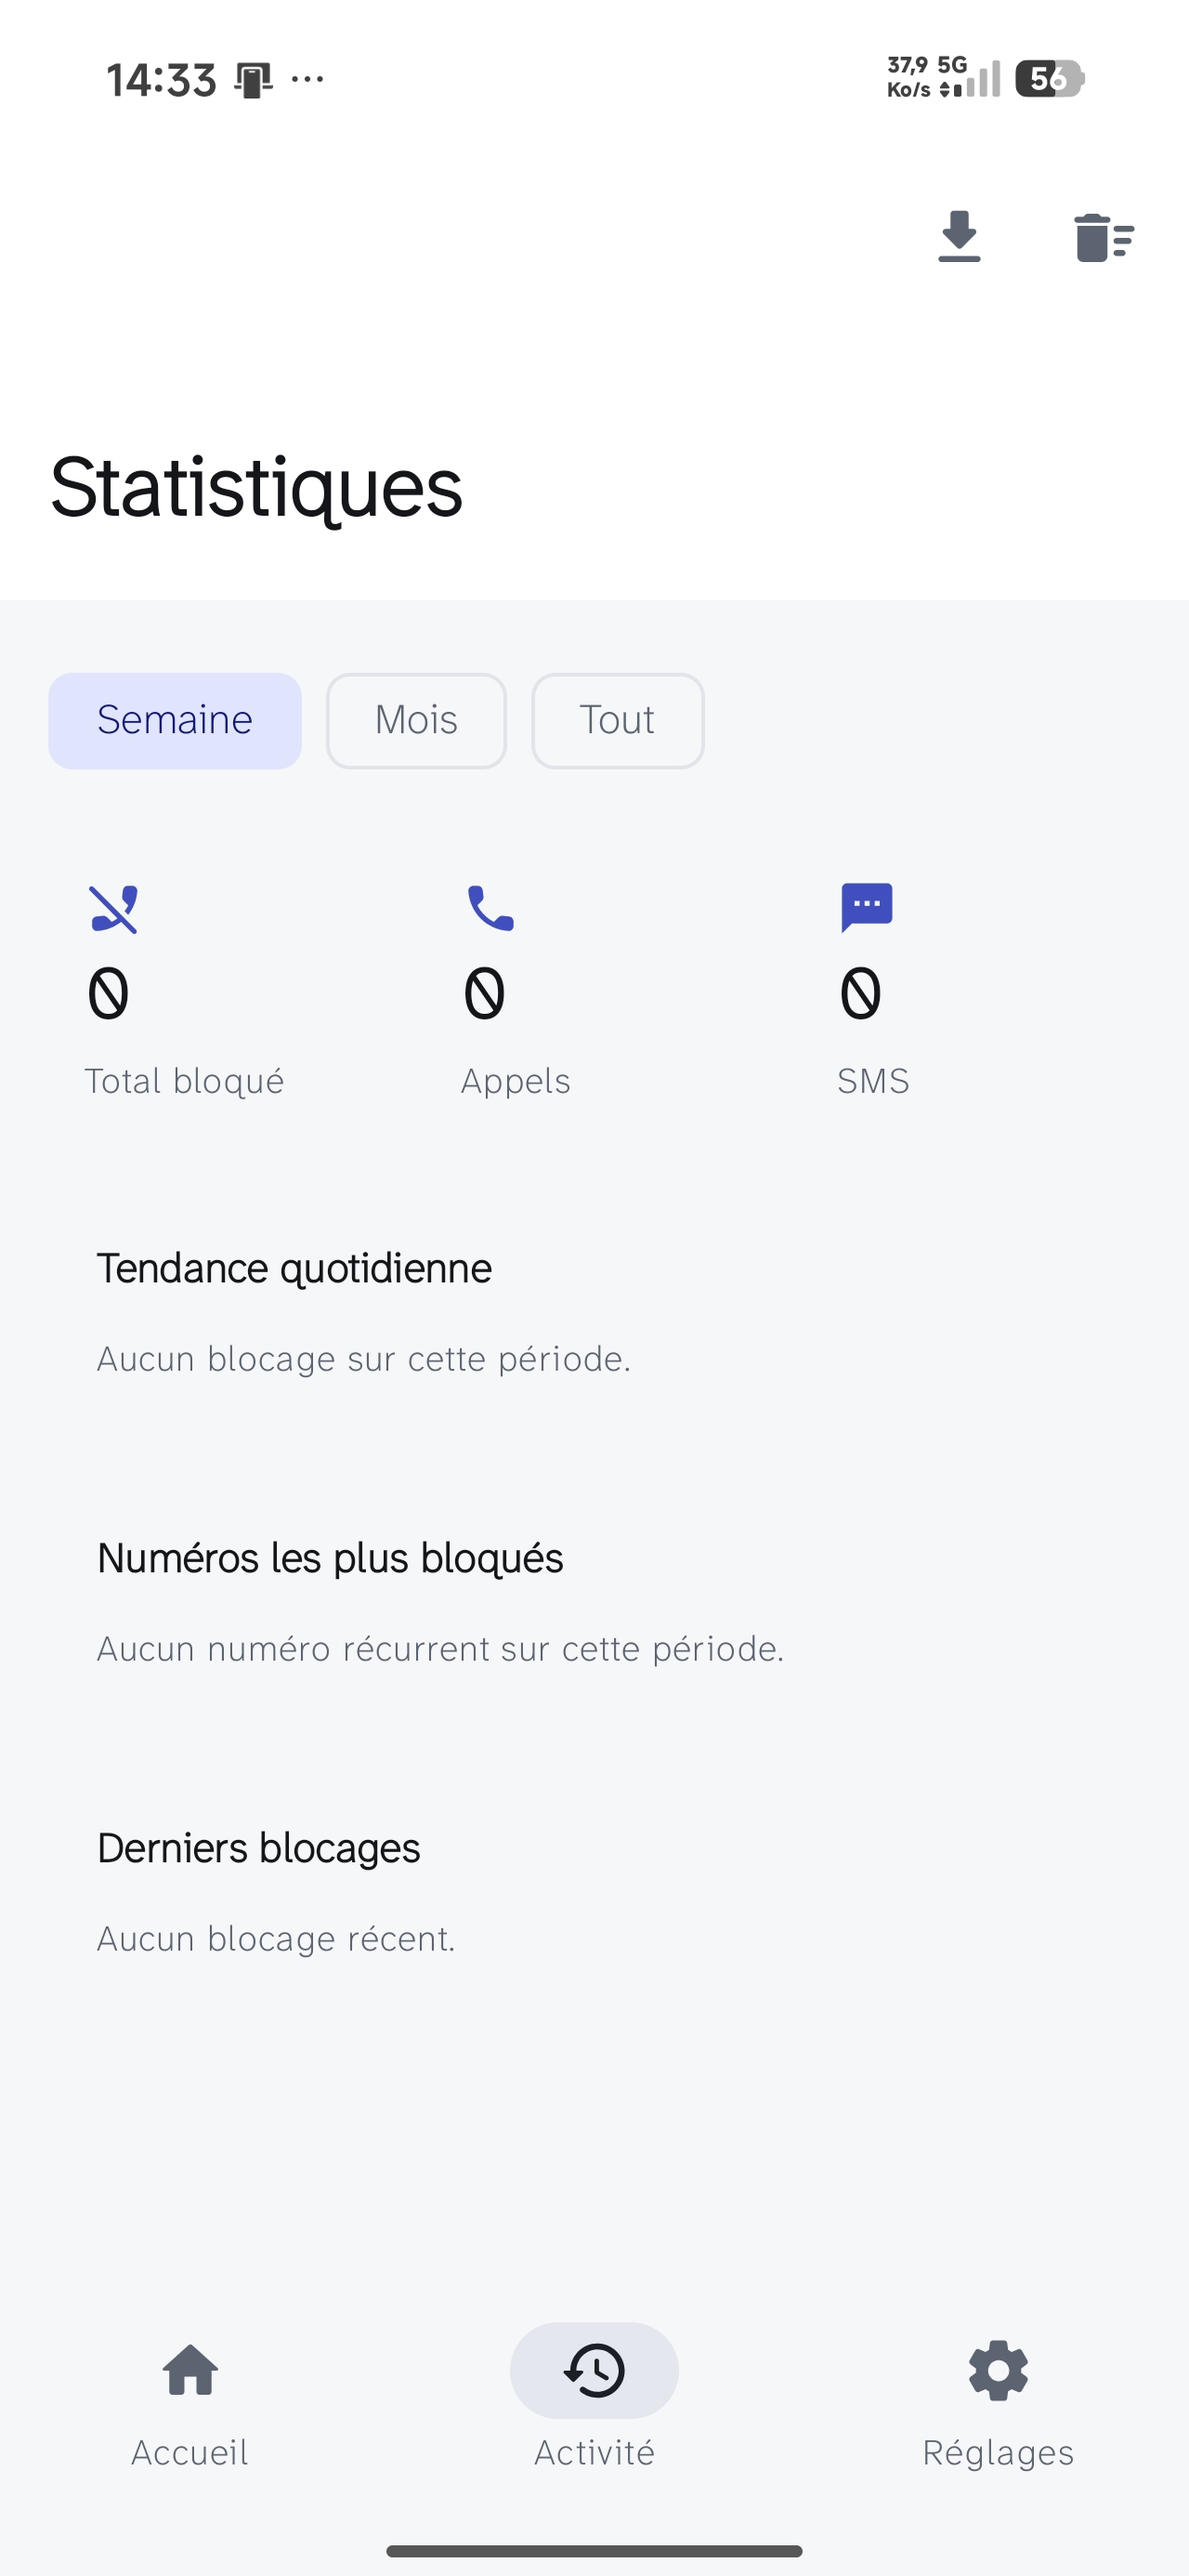
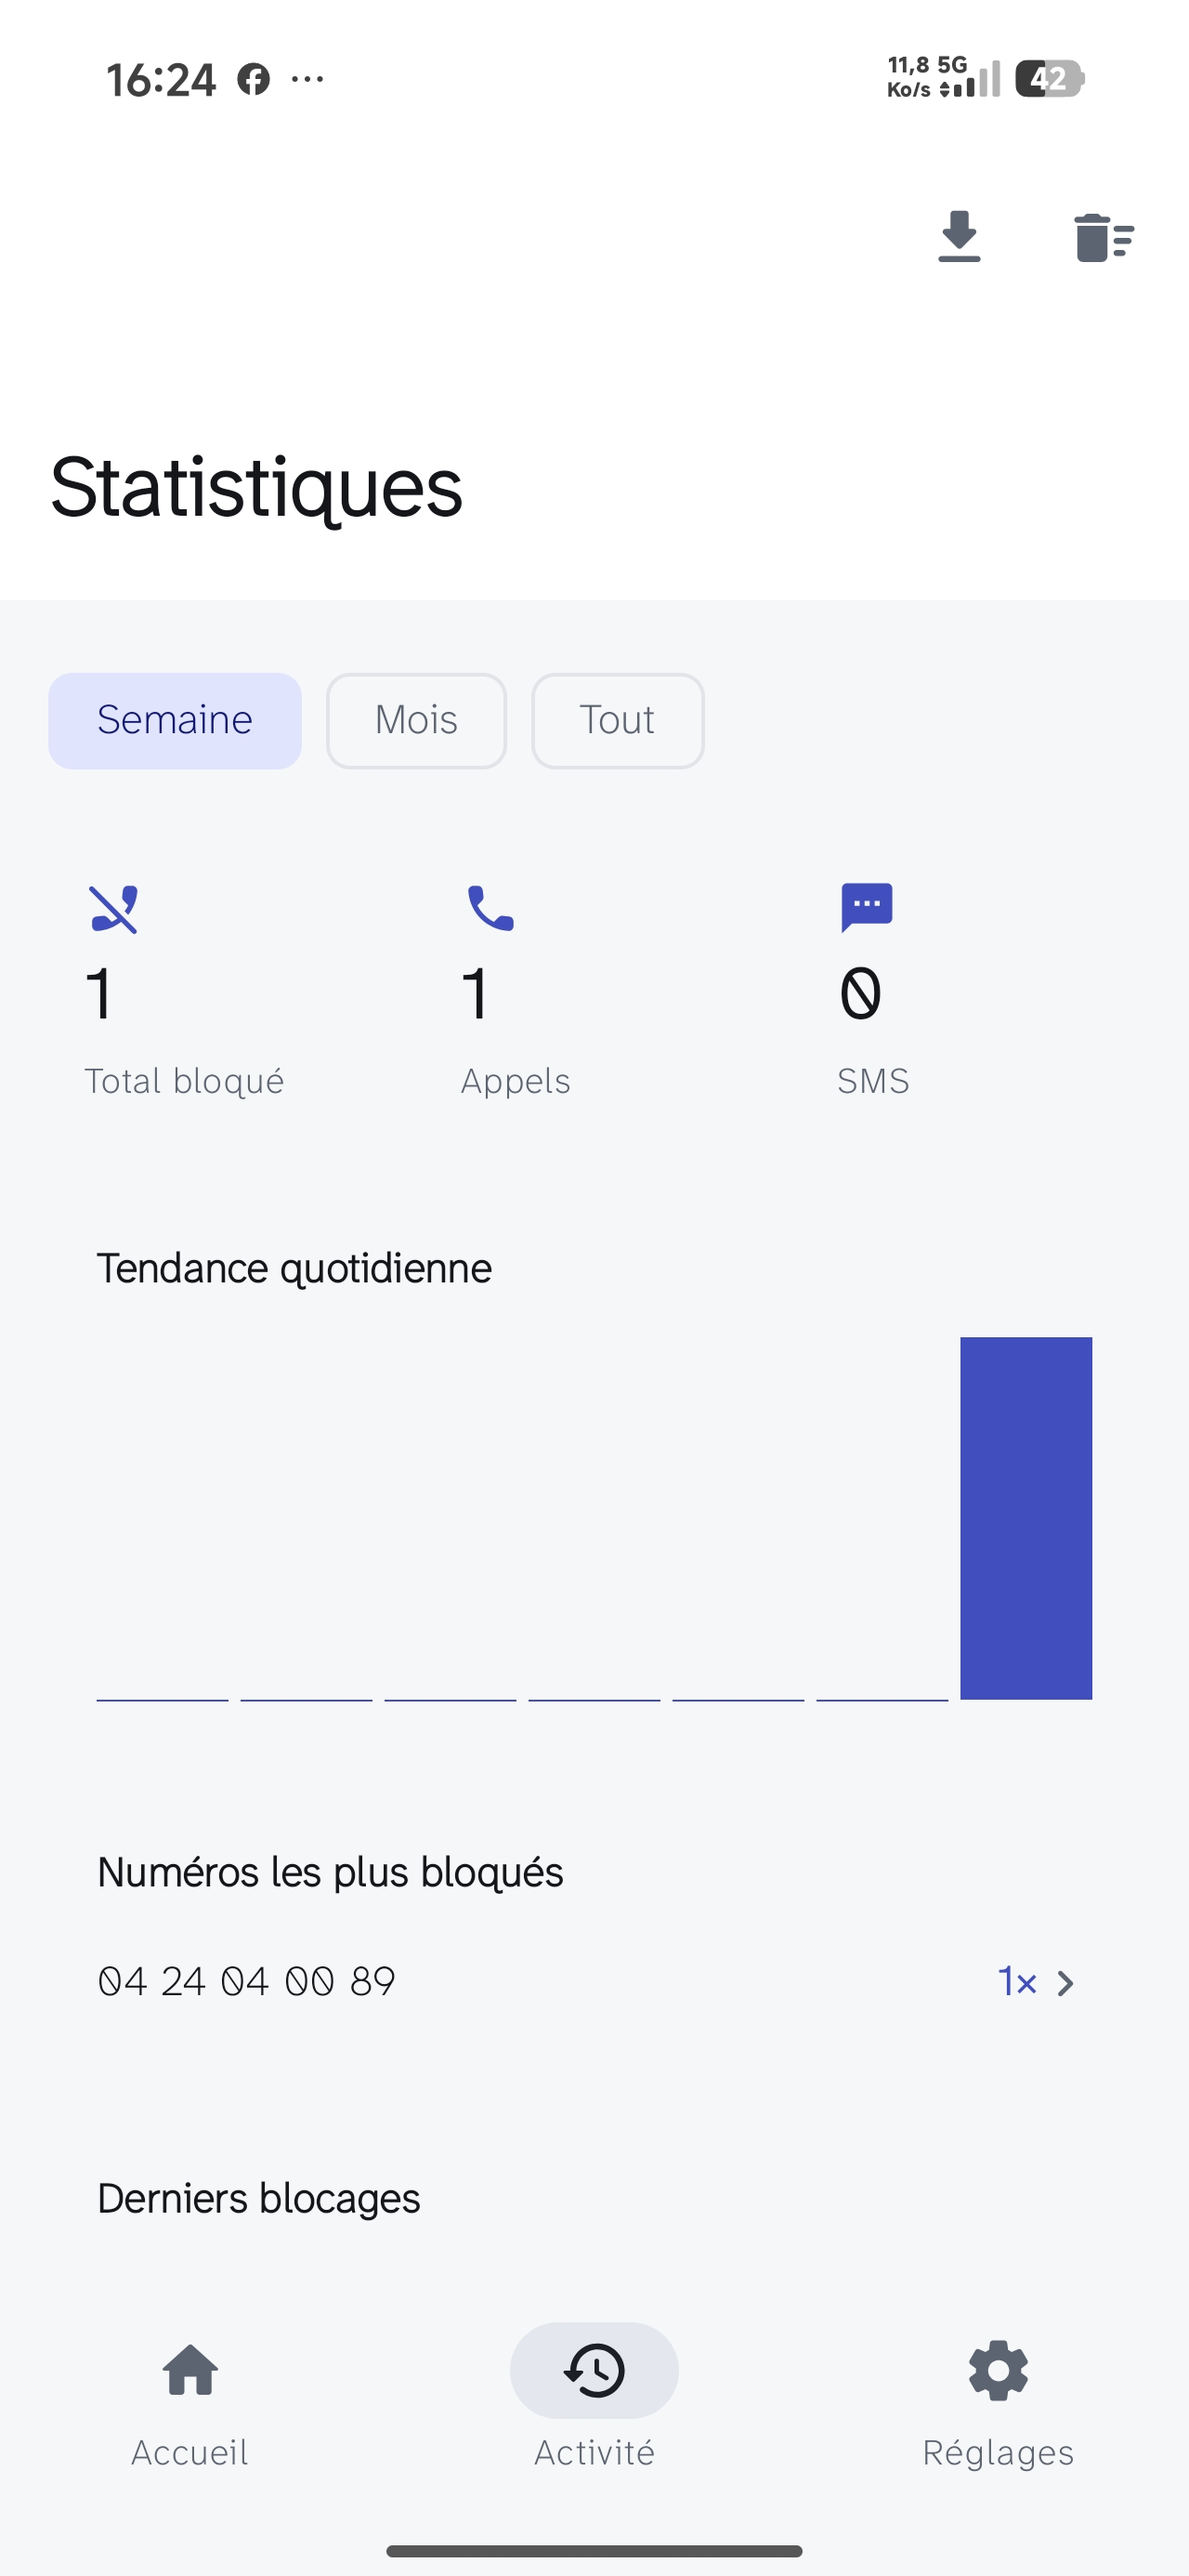
Uniformiser l'affichage du numéro sur la fiche de recherche
Le tableau de bord affichait « 04 24 04 00 89 » et la fiche du même
numéro « +33424040089 », à un tap d'écart.

Corrigé à l'affichage plutôt que dans le modèle : displayNumber reste en
E.164 parce qu'il alimente le pré-remplissage du signalement, qui a
besoin d'un numéro complet avec indicatif. L'E.164 sert aux machines, la
forme groupée aux humains.

Captures du store remplacées par des captures prises après un vrai
blocage : l'accueil annonce « 1 appel indésirable bloqué », le graphique
de tendance est rempli et la fiche du numéro montre les deux badges.
Une fiche qui montre une app à zéro vend mal ce qu'elle fait.

La capture 2 vient d'un build antérieur au renommage du titre et affiche
encore « Statistiques ». Le contenu prime ici, et les captures se
remplacent dans Play Console sans nouveau build.

diff --git a/app/src/main/java/com/sentinelle/app/ui/screen/LookupScreen.kt b/app/src/main/java/com/sentinelle/app/ui/screen/LookupScreen.kt
@@ -65,6 +65,7 @@ import com.sentinelle.app.data.PatternListEntity
 import com.sentinelle.app.ui.NUMBER_LABEL_CATEGORIES
 import com.sentinelle.app.ui.categoryIcon
 import com.sentinelle.app.ui.categoryLabel
+import com.sentinelle.app.ui.formatPhoneNumberForDisplay
 import com.sentinelle.app.ui.viewmodel.lookup.LookupResult
 import com.sentinelle.app.ui.viewmodel.lookup.LookupViewModel
 import com.sentinelle.app.ui.viewmodel.lookup.LookupViewModelFactory
@@ -183,7 +184,11 @@ private fun LookupResultCard(
     ) {
         Column(modifier = Modifier.padding(16.dp), verticalArrangement = Arrangement.spacedBy(12.dp)) {
             Text(
-                text = result.displayNumber,
+                // displayNumber reste en E.164 : il alimente le
+                // pré-remplissage du signalement, qui a besoin d'un numéro
+                // complet. Ici on affiche la forme lisible, la même que
+                // dans le tableau de bord.
+                text = formatPhoneNumberForDisplay(result.phoneNumber),
                 style = MaterialTheme.typography.titleMedium,
                 fontWeight = FontWeight.Bold,
                 color = MaterialTheme.colorScheme.onSurface,
